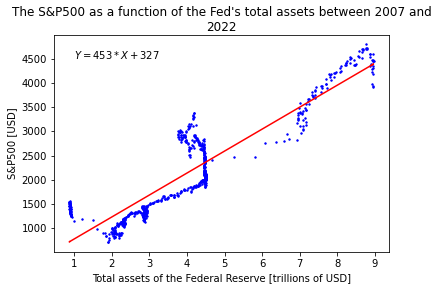
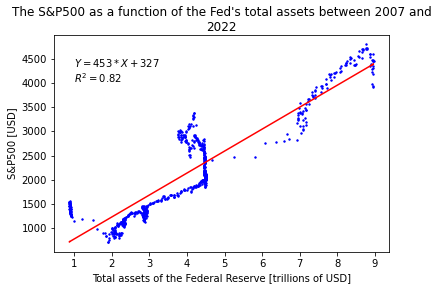
Add R^2 calculation

Changed region(s): [[0.1505, 0.1562, 0.3912, 0.2812]]

diff --git a/fed_vs_s&p.py b/fed_vs_s&p.py
@@ -54,15 +54,20 @@ def main():
     Y_pred = linear_regressor.predict(X)  # make predictions
     plt.plot(X, Y_pred, color='red')
     
+    # Compute and print R^2 value
+    r_squared = linear_regressor.score(X, Y)
+    print("R^2:", r_squared)
+
     slope = round(linear_regressor.coef_[0][0])
     intercept = round(linear_regressor.intercept_[0])
     
     print("Slope:", slope)
     print("Intercept:", intercept)
     
-    ax.text(1, 4500, f'$Y = {slope} * X + {intercept}$', fontsize=10)
+    # Add text to plot for slope, intercept, and R^2
+    ax.text(1, 4000, f'$Y = {slope} * X + {intercept}$\n$R^2 = {round(r_squared, 2)}$', fontsize=10)
     
-    #plt.savefig('fed_vs_sp.eps', format='eps')
+    plt.savefig('fed_vs_sp.png', format='png')
 
     plt.show()
 
